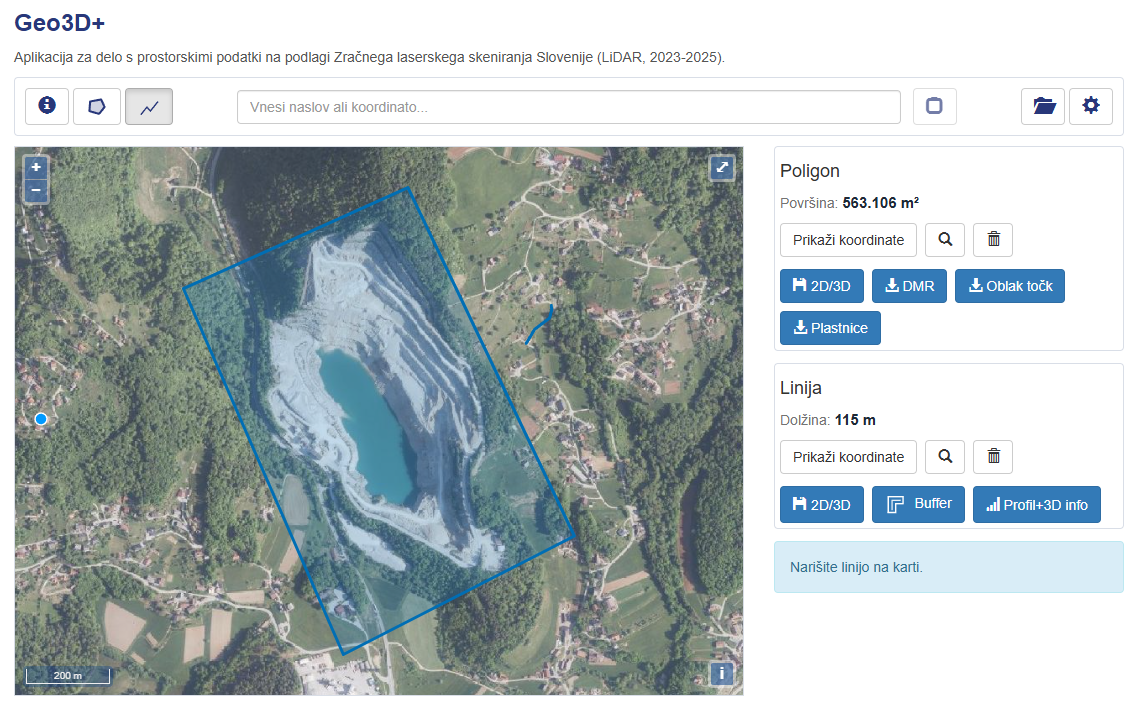
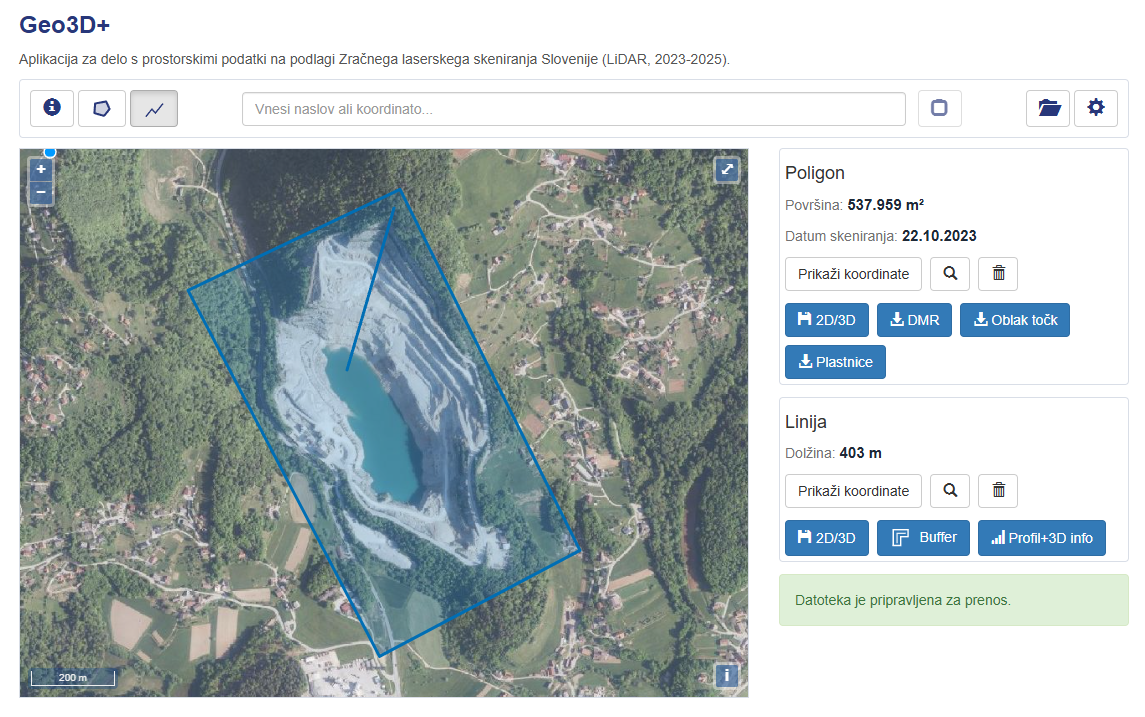
slika

diff --git a/pages/spletni_vmesnik/sv_zacetek.md b/pages/spletni_vmesnik/sv_zacetek.md
@@ -1,0 +1,23 @@
+---
+title: Začetek
+keywords: izvoz sloja, ESRI Shapefile, Autocad DXF, MS Office Open XLSX, Text CSV, Text TSV, Keyhole Markup Language KML, GeoJSON, opisni podatki, kontekstni meni, vektorski sloj, tabela, rastrski sloj, skupina slojev
+sidebar: gp_sidebar
+permalink: sv_zacetek.html
+folder: spletni_vmesnik
+---
+
+Po uspešni prijavi in izbiri projekta v spletnem brskalniku na prenosnem ali osebnem računalniku se prikaže spletni vmesnik za delo s prostorskimi podatki.
+
+Glavni deli vmesnika so:
+- **Glavni meni**: omogoča dostop do različnih funkcionalnosti in nastavitev.
+- **Legenda**: prikazuje vse sloje, ki so vključeni v projekt, in omogoča njihovo upravljanje.
+- **Karta**: glavni prikaz prostorskih podatkov, kjer se prikažejo vključeni sloji.
+- **Podatkovna tabela**: prikazuje opisne podatke izbranih elementov slojev.
+- **Nadzorna vrstica**: vsebuje orodja za interakcijo s karto, kot so povečava, merjenje, tiskanje in iskanje.
+- **Stanje**: prikazuje informacije o trenutnem projektu, kot so ime projekta, datum in čas zadnje posodobitve ter število elementov v slojih.
+- **Pomoč**: dostop do dokumentacije in navodil za uporabo spletnega vmesnika.
+- **Nastavitve**: omogoča prilagoditev uporabniškega vmesnika, kot so jezik, enote merjenja in druge možnosti.
+- **Obvestila**: prikazuje pomembne informacije in opozorila glede projekta ali sistema.
+- **Povezave**: omogoča dostop do drugih virov, kot so spletne strani, dokumenti ali aplikacije, ki so povezane s projektom.
+- **Uporabniški profil**: omogoča upravljanje uporabniškega računa, kot so sprememba gesla, e-pošte in drugih osebnih podatkov.
+- **Odjava**: omogoča odjavo iz sistema in vrnitev na začetno stran.
